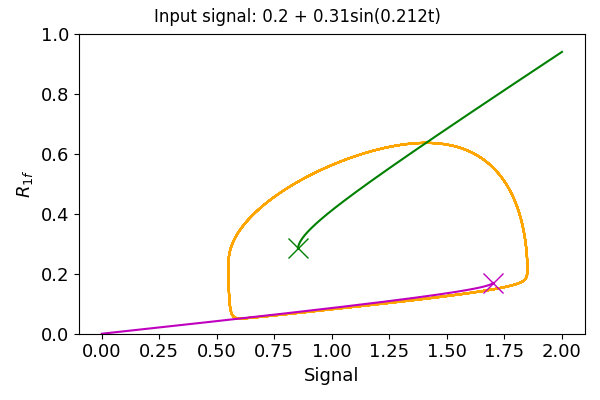
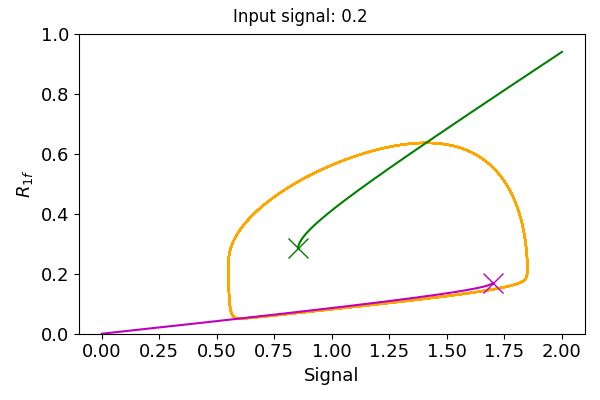
.

Changed region(s): [[0.24, 0.0, 0.75, 0.06]]

diff --git a/ODEsolver.py b/ODEsolver.py
@@ -362,7 +362,9 @@ for f in figs:
     #f.tight_layout()
     f.tight_layout(rect=[0, 0, 1, 0.97])
     # f.suptitle(figtitles[c])
-    f.suptitle(title + "\n")
+    if c > 1:
+        title = f"Input signal: {S}"
+    f.suptitle(title)
     f.savefig(f"1f2b " + fignames[c] + ".png")
     c+=1
 plt.gcf().subplots_adjust(top=0.15)
